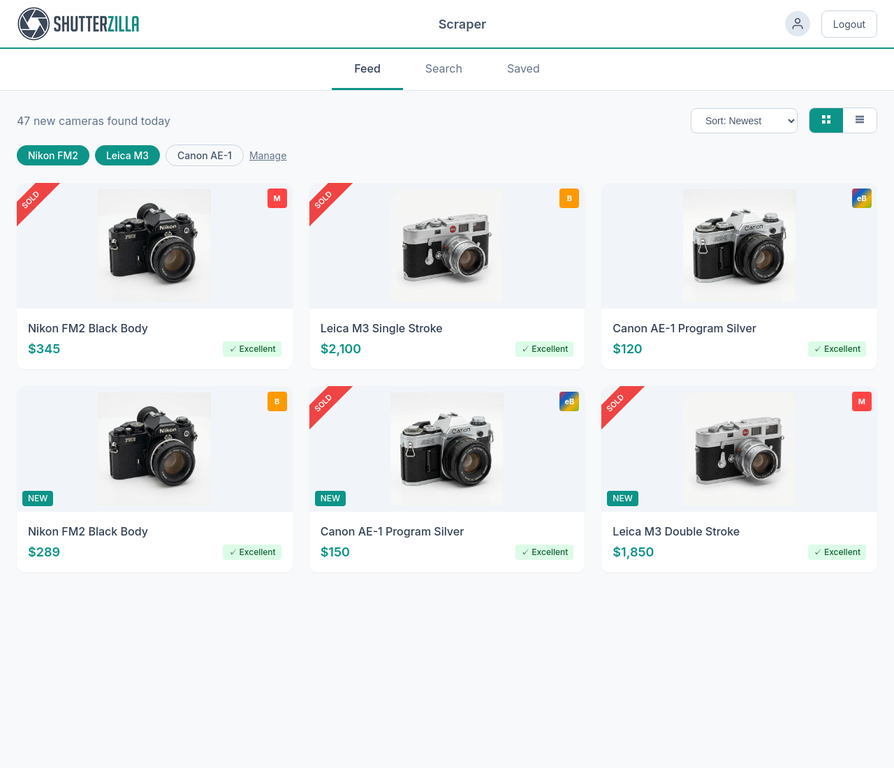
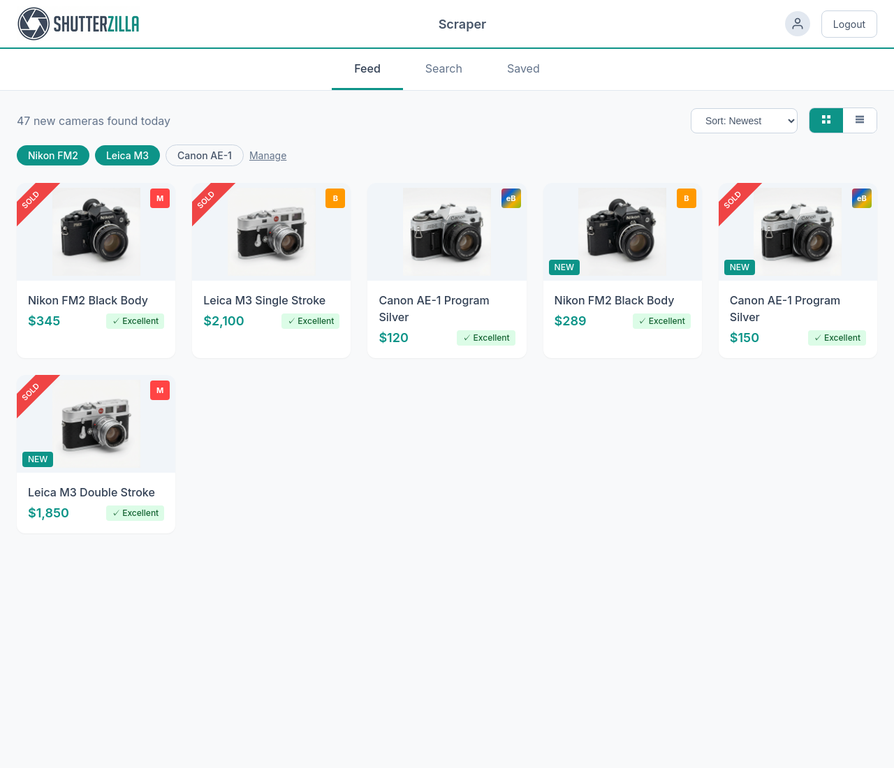
Change camera grid to 5 columns and reduce card height

diff --git a/mockups/scraper-feed.html b/mockups/scraper-feed.html
@@ -10,7 +10,7 @@
     /* Page-specific adjustments */
     .card__image-container {
       position: relative;
-      height: 180px;
+      height: 140px;
       background-color: var(--color-gray-100);
       display: flex;
       align-items: center;
@@ -103,7 +103,7 @@
     </div>
 
     <!-- Camera Grid -->
-    <div class="grid grid--3">
+    <div class="grid grid--5">
       <!-- Card 1 - Nikon FM2 Sold -->
       <div class="card">
         <div class="card__image-container">

diff --git a/mockups/css/styles.css b/mockups/css/styles.css
@@ -278,6 +278,10 @@ body {
   grid-template-columns: repeat(4, 1fr);
 }
 
+.grid--5 {
+  grid-template-columns: repeat(5, 1fr);
+}
+
 /* ===== Utilities ===== */
 .flex {
   display: flex;
